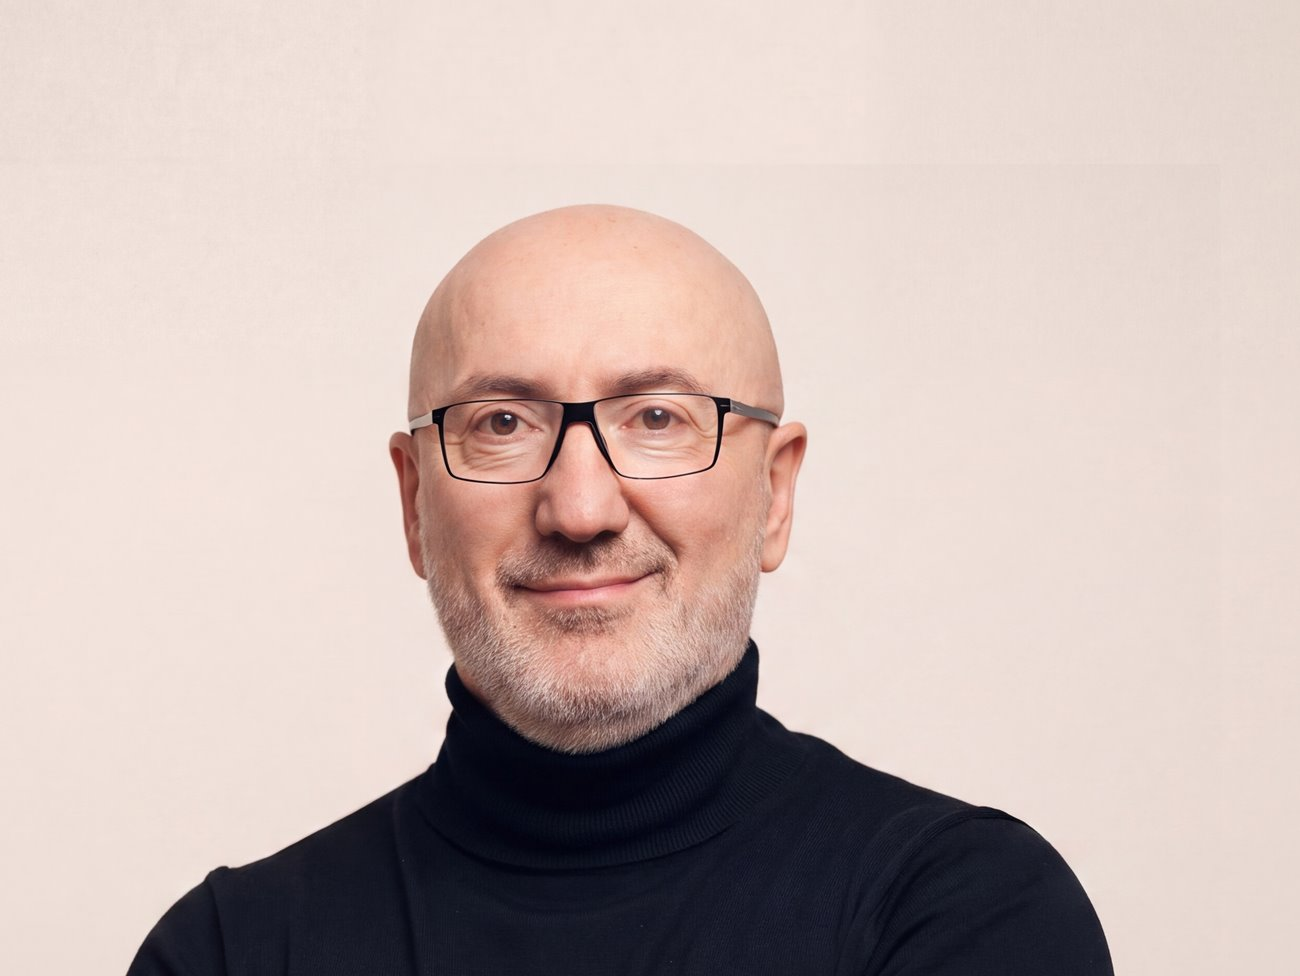
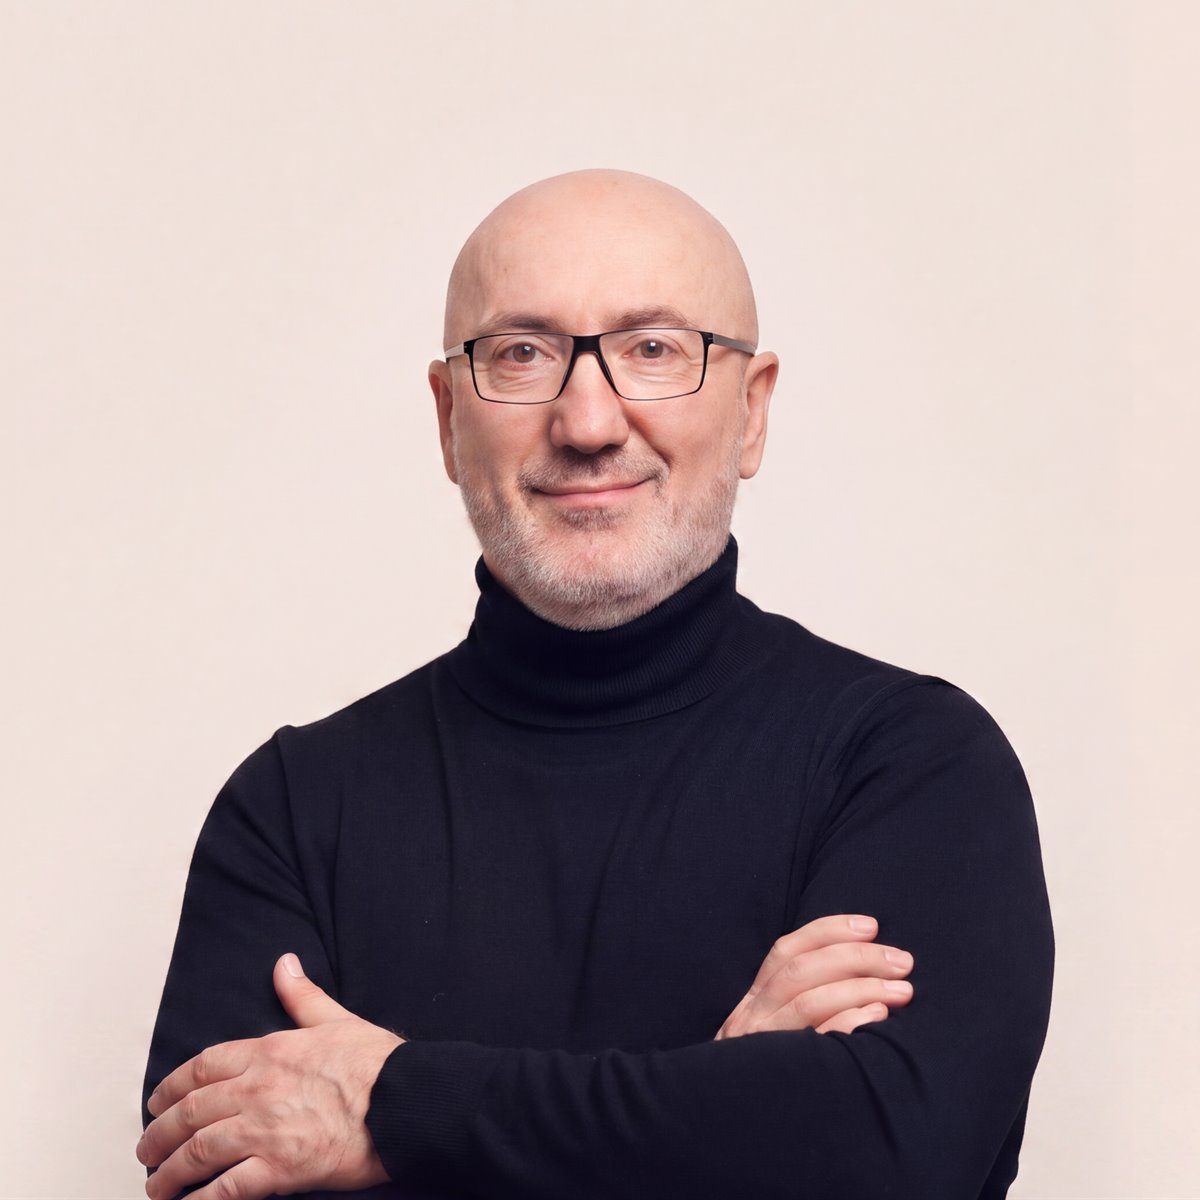
Новый исходник портрета, кадры перекроены, проверка на шести разрешениях
· исходник с запасом с обеих сторон, врач по центру
· вертикальный кадр под половину десктопа и почти квадратный под полосу на телефоне:
  при нынешней высоте полосы горизонтальный кадр обрезался бы по бокам
· якорь кадра у верха — лишнее срезается снизу, где и так уходят руки, голова цела
· невысокие телефоны (360×640): полоса и заголовок ужимаются, иначе кнопки уезжали
  за нижний край
· shot.mjs проверяет шесть разрешений и сам говорит, уместился ли первый экран

diff --git a/app/components/HeroSection.vue b/app/components/HeroSection.vue
@@ -46,14 +46,14 @@ const base = useRuntimeConfig().app.baseURL
         <source
           media="(max-width: 900px)"
           :srcset="`${base}media/doctor-portrait-wide.jpg`"
-          width="1300"
-          height="976"
+          width="1200"
+          height="1200"
         />
         <img
           :src="`${base}media/doctor-portrait.jpg`"
           alt="Эльдар Камалов, пластический хирург"
           width="1400"
-          height="1711"
+          height="1707"
           fetchpriority="high"
         />
       </picture>
@@ -145,9 +145,10 @@ const base = useRuntimeConfig().app.baseURL
 
 .hero__photo img {
   object-fit: cover;
-  /* Кадр уже обрезан под пропорцию половины, подрезается он совсем чуть-чуть.
-     Смещение вверх — на случай широких и низких окон, чтобы голова не ушла за край. */
-  object-position: 50% 28%;
+  /* Кадр обрезан заранее почти под пропорцию половины, поэтому подрезается чуть-чуть.
+     Якорь у верха: на широких и низких окнах лишнее срезается снизу, где и так уходят
+     руки, а голова остаётся целиком. */
+  object-position: 50% 20%;
   filter: saturate(0.92) contrast(1.02);
 }
 
@@ -299,9 +300,9 @@ const base = useRuntimeConfig().app.baseURL
   }
 
   .hero__photo img {
-    /* Горизонтальный кадр — голова и плечи. Смещение вниз: сверху над головой
-       места меньше, зато видно больше корпуса. */
-    object-position: 50% 46%;
+    /* Почти квадратный кадр. Тот же якорь у верха: лишнее срезается снизу,
+       голова не обрезается ни на одной высоте экрана. */
+    object-position: 50% 18%;
   }
 
   .hero__inner {
@@ -357,6 +358,27 @@ const base = useRuntimeConfig().app.baseURL
 
   .hero__scroll {
     display: none;
+  }
+}
+
+/* Невысокие телефоны (например 360×640): при полной высоте полосы кнопки уезжали
+   за нижний край экрана — ужимаем фотографию и заголовок */
+@media (max-width: 900px) and (max-height: 720px) {
+  .hero {
+    --hero-photo-h: 40svh;
+    --hero-caption: 2rem;
+  }
+
+  .hero__title {
+    font-size: clamp(1.625rem, 7vw, 2rem);
+  }
+
+  .hero__spec {
+    font-size: 1rem;
+  }
+
+  .hero__creds {
+    font-size: 0.875rem;
   }
 }
 </style>
